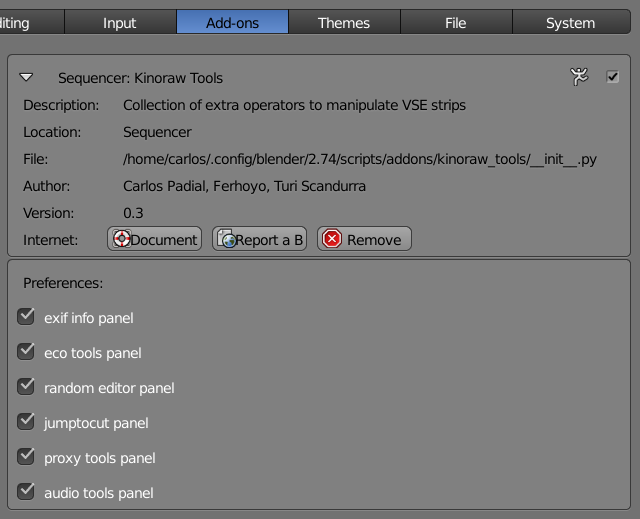
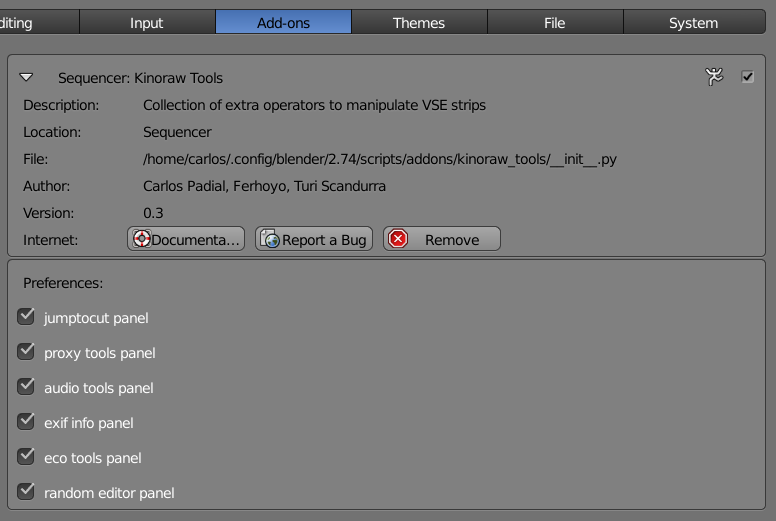
readme

diff --git a/__init__.py b/__init__.py
@@ -204,29 +204,18 @@ class KinorawToolsAddon(bpy.types.AddonPreferences):
     def draw(self, context):
 
         layout = self.layout
-        layout.prop(self, "use_exif_panel")
-
-        layout = self.layout
-        layout.prop(self, "use_eco_tools")
-
-        layout = self.layout
-        layout.prop(self, "use_random_editor")
-
-        layout = self.layout
         layout.prop(self, "use_jumptocut")
-
-        # PROXY
         layout = self.layout
         layout.prop(self, "use_proxy_tools")
-
-        # AUDIO
         layout = self.layout
         layout.prop(self, "use_audio_tools")
-
-        # EXTRA ACTIONS
         layout = self.layout
-        layout.prop(self, "use_extra_actions_panel")
-
+        layout.prop(self, "use_exif_panel")
+        layout = self.layout
+        layout.prop(self, "use_eco_tools")
+        layout = self.layout
+        layout.prop(self, "use_random_editor")
+    
 
 # Registration
 def register():
